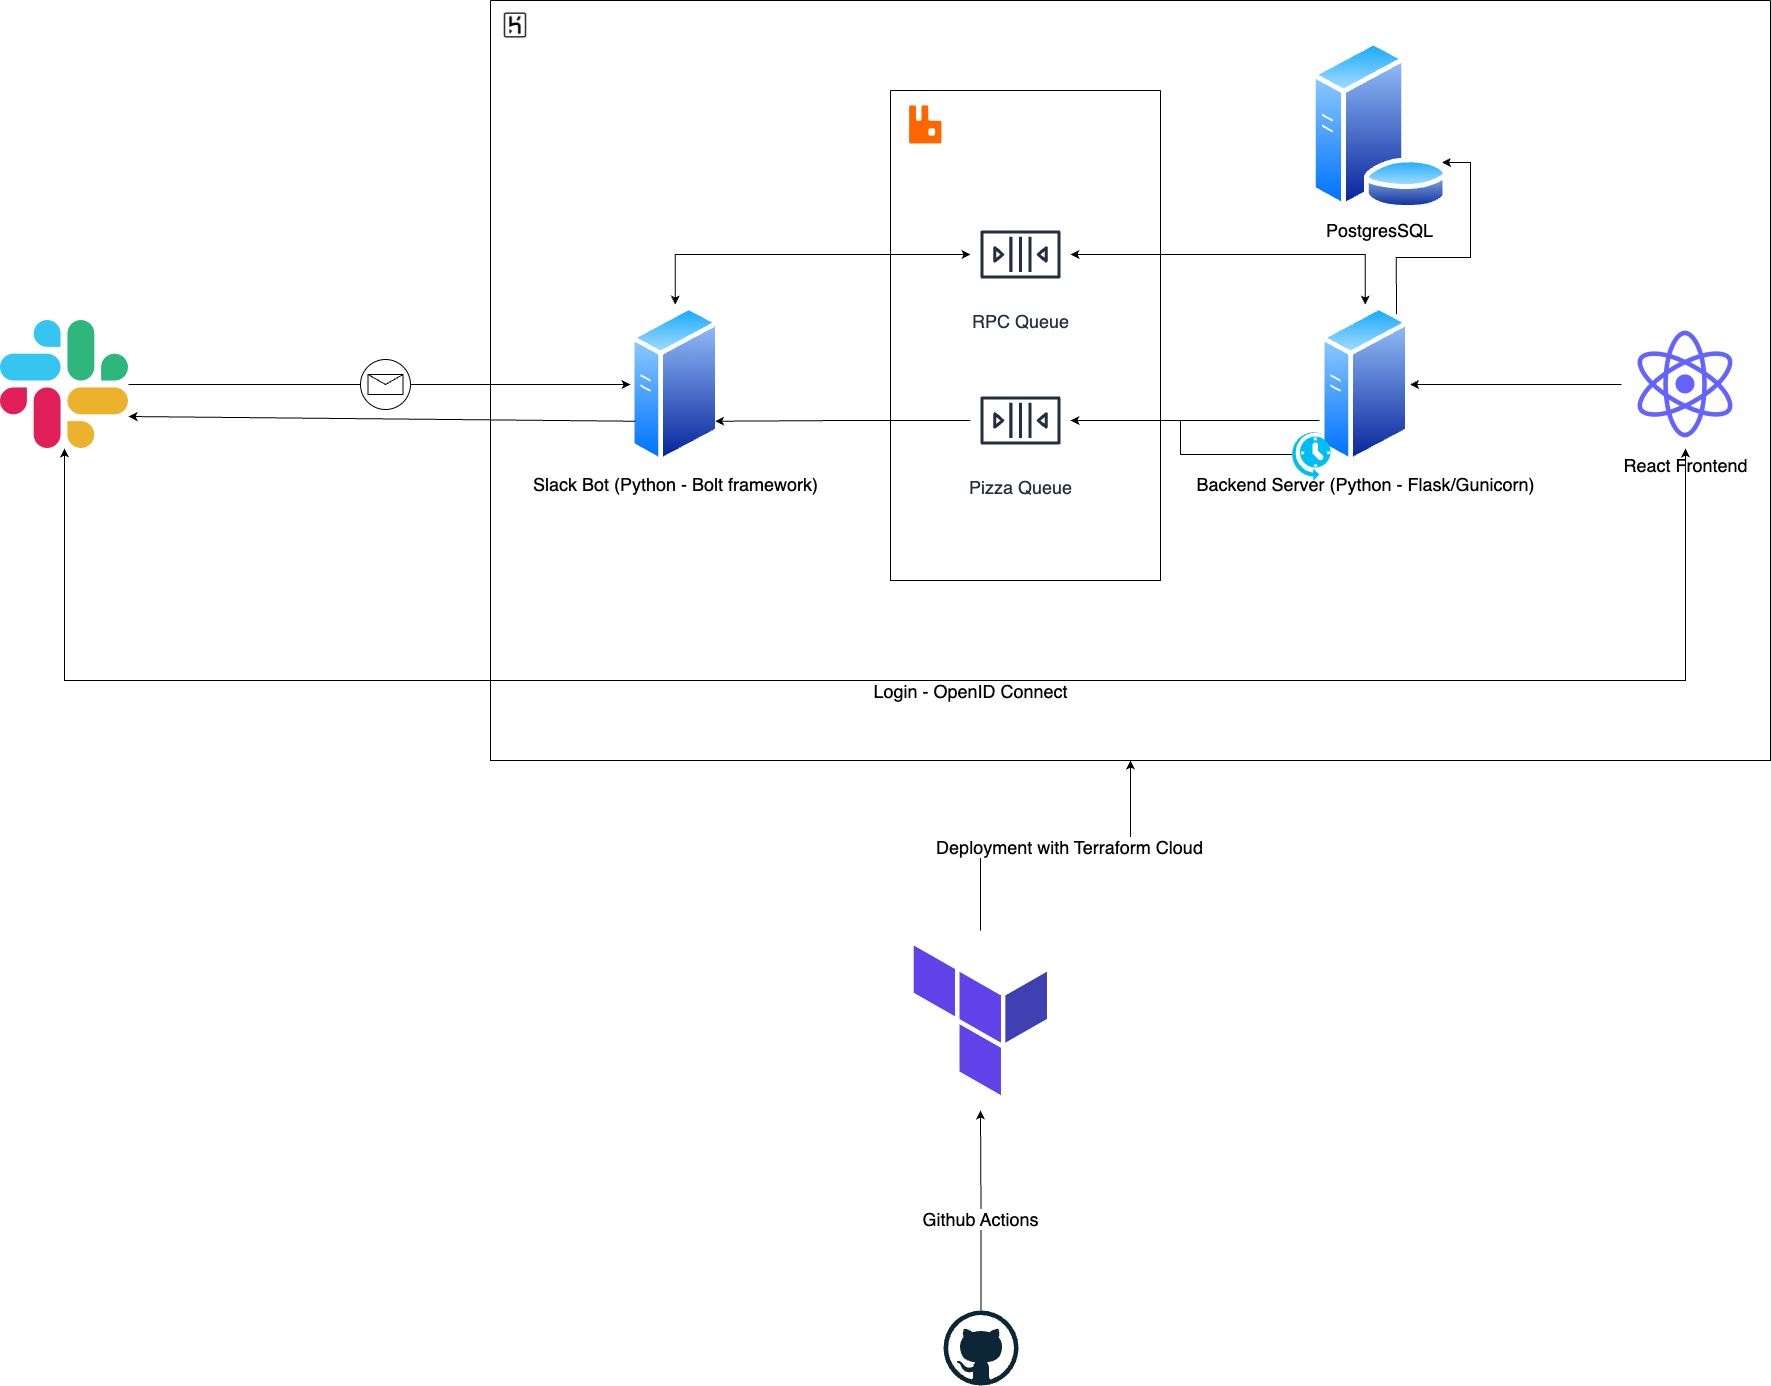
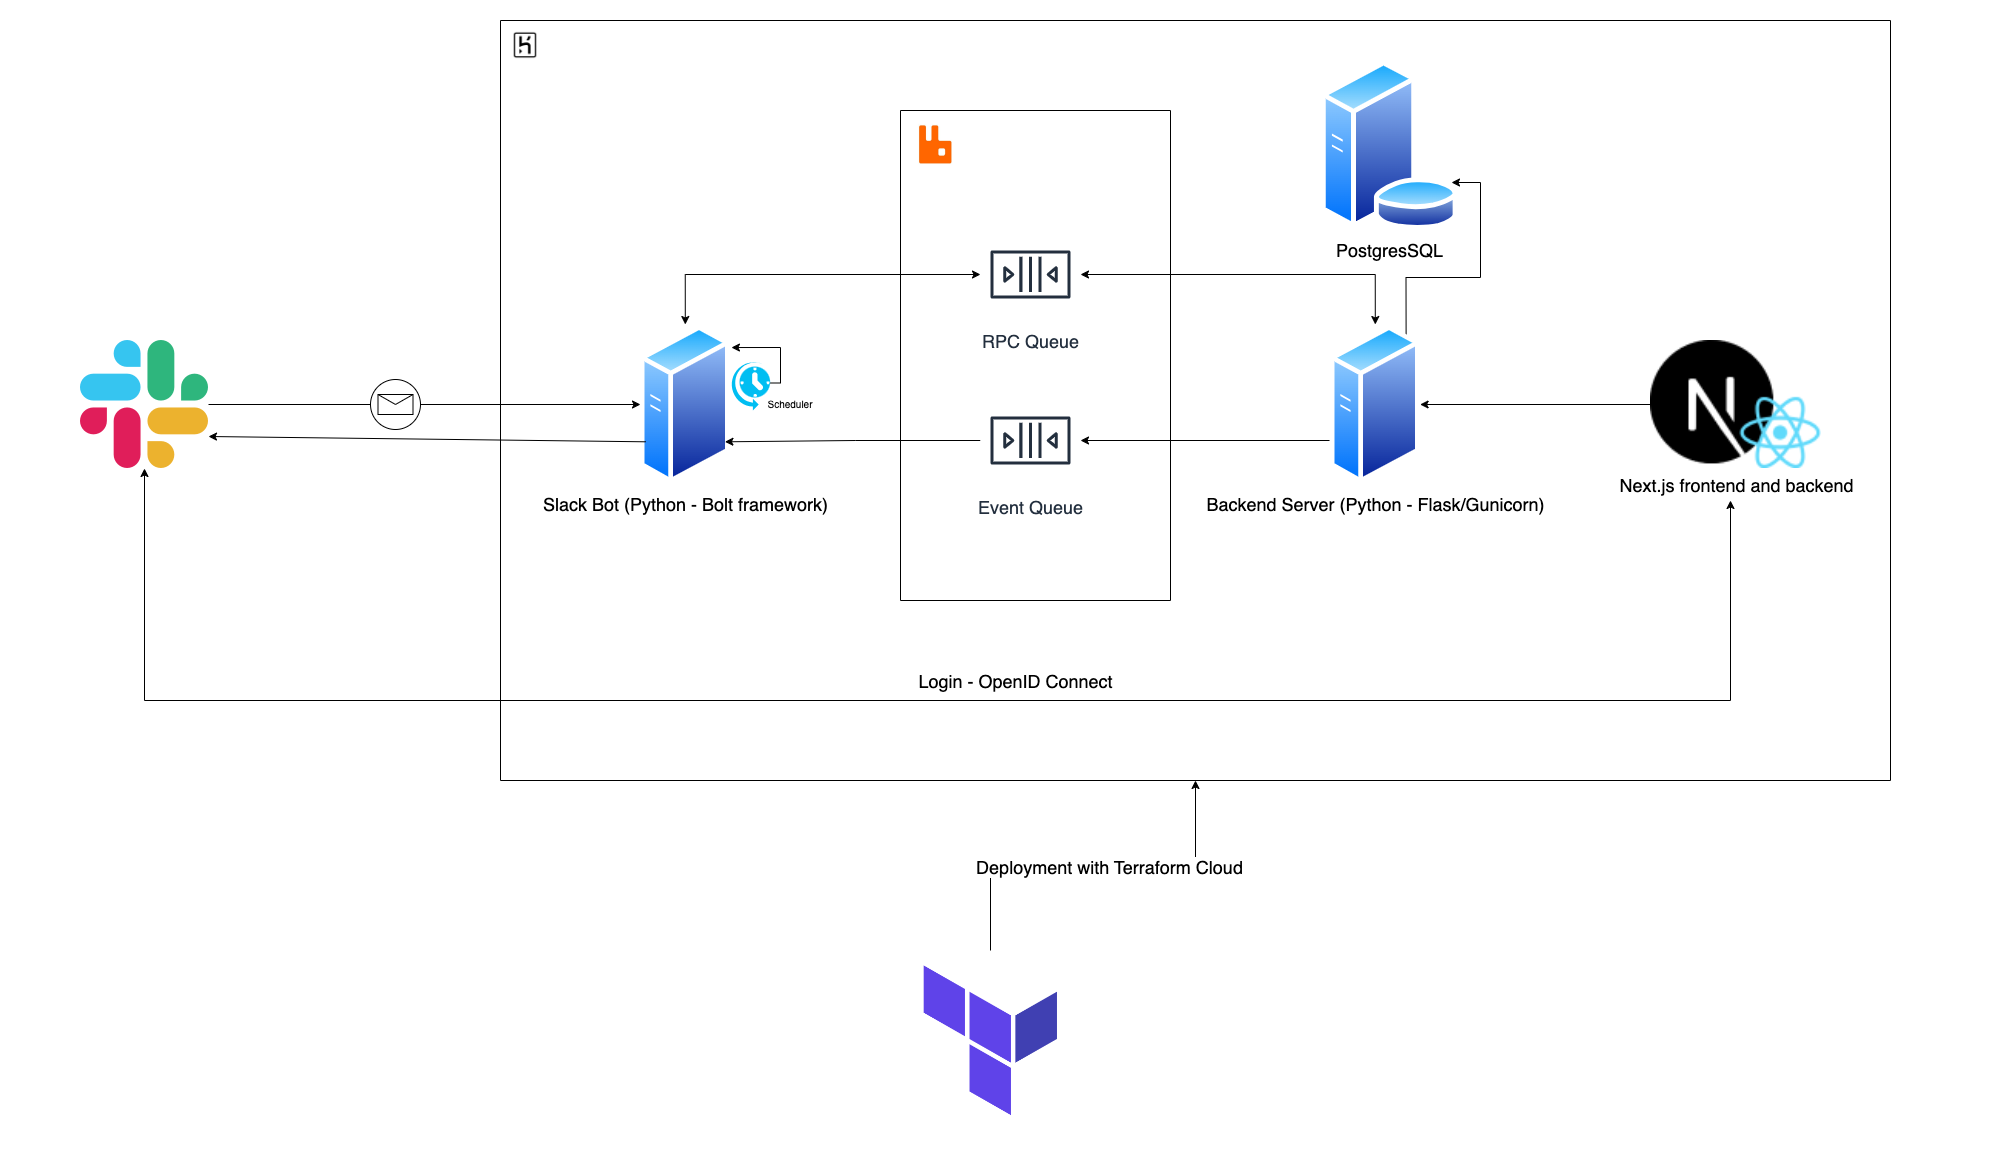
docs: update root and frontend README and diagrams

diff --git a/README.md b/README.md
@@ -1,6 +1,6 @@
-# pizza-app
+# PizzaBot v3
 
-![Infrastructure Diagram](https://github.com//blankoslo/Pizza.v2/blob/main/README/infrastructure.png?raw=true)
+![Infrastructure Diagram](https://github.com//blankoslo/Pizza.v3/blob/main/README/infrastructure.png?raw=true)
 
 ## Slack App Bot setup
 
@@ -41,6 +41,11 @@ As we use Ouath2 for authentication we are forced to use https. Nginx needs vali
 
 **NB:** You'll need to supply the docker-compose file with slack credentials as mention in the `Slack App Bot setup` section. These are defined in a `.env` file in `application/containers/development` folder of the project. This file is not commited to the repository, so you have to create it manually. You can use the `.env.example` file as a template inside `application/containers/development`. You'll also need to supply cloudinary credentials if you want the uninstall handler to properly delete images, you should also update the `upload_preset` in `handle_file_share` in `bot/src/slack/__init__.py` to point to your own cloudinary account.
 
+### Slack integration flow
+
+For flow of how the bot is added to a slack workspace, see digram in README/InstallFlow.png
+For flow of how login is handled with Slack, see diagram in README/LoginFlow.png
+
 ### Good to know
 
 Locales doesnt work properly in the alpine container used, meaning it's not a bug if stuff is localized wrong, such as the time string send in pizza event invites.
@@ -49,24 +54,28 @@ Locales doesnt work properly in the alpine container used, meaning it's not a bu
 
 #### Terraform Cloud
 
-This repository is connected to Terraform Cloud where it is automatically planned and then manually applied whenever a new tag is created.
-The branch used in Terraform Cloud is the `Build` branch, which gets created on every new version. This branch is the same as master, but it also contains the build files for the frontend application.
-A tag is automatically created through GitHub actions when a PR is merged into Main.
+This repository is connected to Terraform Cloud where it is planned and then manually applied whenever a new tag is created.
+
+Prod and staging live as separate workspaces in Terraform Cloud. The branch used in Terraform Cloud is `main` for the staging environment, and `prod` for the production environment. The `prod` branch is merged from main after the staging environment is tested. Terraform is not set up to automatically listen for changes on the branches (TODO), and a manual update of the target branch might be required to plan a new version.
+
+When a planned version is applied, the changed environments are pushed to Heroku
 
 #### Heroku
 
 We are using terraform to describe the infrastructure, which can be found in the `/infrastructure` folder. In addition to this the backend/bot have `Procfile`, `runtime.txt`, and `.locales` files that describe the process, heroku runtime and additional locales to include. While the frontend have `.static` in the `public` folder to indicate the application folder for the nginx buildpacker, and a `.gitignore` file to keep the files and folder in git.
 
 1. Go into the `infrastructure` folder and run `terraform apply` (not needed if using Terraform Cloud).
-2. Go to the app settings of the frontend app in Heroku at `https://dashboard.heroku.com/apps/pizzabot-v2-stag-frontend/settings` (where the text after `/apps/` will be your app's name) and under `Domains` copy the `DNS Target`.
-3. Go to the app settings of the backend app in Heroku at `https://dashboard.heroku.com/apps/pizzabot-v2-stag-backend/settings` (where the text after `/apps/` will be your app's name) and under `Domains` copy the `DNS Target`.
-4. Create a CNAME record with the hostname specified in the main terraform file for both the frontend and the backend and point them to the `DNS TARGET`s from heroku. After a while routing and SSL should work flawlesly.
+2. Go to the app settings of the frontend app in Heroku and under `Domains` copy the `DNS Target`.
+3. Go to the app settings of the backend app in Heroku and under `Domains` copy the `DNS Target`.
+4. Create a CNAME record with the hostname specified in the main terraform file for both the frontend and the backend and point them to the `DNS TARGET`s from heroku. After a while routing and SSL should work flawlessly.
 
 Infrastructure:
 
-- Backend-app: contains the database, papertrail instance, Rabbitmq instance, and backend application
-- Bot-app: contains an attachement to the database, an attachement to the papertrail instance, an attachement to the Rabbitmq instance, the bot worker
-- Frontend-app: contains a nginx instance with the build files from the `public` folder
+- prod/stag-backend: contains the database, papertrail instance, Rabbitmq instance, and backend application
+- prod/stag-bot: contains an attachement to the database, an attachement to the papertrail instance, an attachement to the Rabbitmq instance, the bot worker
+- prod/stag-frontend: contains source code of the Next.js-application, which is automatically detected and built by Heroku. The app is then automatically launched using by heroku with `npm run start`, where the correct port is provided with the env-var `$PORT`.
+
+**NOTE** Promoting apps from staging to prod has not been tested. We manually apply new prod and staging instances using Terraform.
 
 ## Tests
 
@@ -99,11 +108,11 @@ Please follow these guidelines when contributing to this project:
 
 ## Code of Conduct
 
-We expect all contributors to adhere to our [Code of Conduct](https://github.com/blankoslo/Pizza.v2/blob/main/CODE_OF_CONDUCT.md). Please read it before contributing.
+We expect all contributors to adhere to our [Code of Conduct](https://github.com/blankoslo/Pizza.v3/blob/main/CODE_OF_CONDUCT.md). Please read it before contributing.
 
 ## Issue Tracker
 
-If you find any issues or have feature requests, please submit them on the [issue tracker](https://github.com/blankoslo/Pizza.v2/issues).
+If you find any issues or have feature requests, please submit them on the [issue tracker](https://github.com/blankoslo/Pizza.v3/issues).
 
 ## Contact
 
@@ -113,4 +122,4 @@ Thank you for your contributions!
 
 ## License
 
-By contributing to Pizza.v2, you agree that your contributions will be licensed under the GNU General Public License v3.0 license. Please see the [LICENSE](https://github.com/blankoslo/Pizza.v2/blob/main/LICENSE) file for more information.
+By contributing to Pizza.v3, you agree that your contributions will be licensed under the GNU General Public License v3.0 license. Please see the [LICENSE](https://github.com/blankoslo/Pizza.v3/blob/main/LICENSE) file for more information.

diff --git a/application/next-frontend/README.md b/application/next-frontend/README.md
@@ -1,38 +1,41 @@
-This is a [Next.js](https://nextjs.org/) project bootstrapped with [`create-next-app`](https://github.com/vercel/next.js/tree/canary/packages/create-next-app).
+New frontend for the Pizzabot, written in Next.js with pages-router.
 
-## Getting Started
+# Getting Started
 
-First, run the development server:
+In order for the application to work the dev server should be launched through the corresponding docker-container. Read the root-level README, the local dev-url is https://localhost:4000
 
-```bash
-npm run dev
-# or
-yarn dev
-# or
-pnpm dev
-```
+# About the codebase
 
-Open [http://localhost:3000](http://localhost:3000) with your browser to see the result.
+## Folder structure
 
-You can start editing the page by modifying `pages/index.tsx`. The page auto-updates as you edit the file.
+### /pages
 
-[API routes](https://nextjs.org/docs/api-routes/introduction) can be accessed on [http://localhost:3000/api/hello](http://localhost:3000/api/hello). This endpoint can be edited in `pages/api/hello.ts`.
+Used for defining routes, and check for auth server-side
 
-The `pages/api` directory is mapped to `/api/*`. Files in this directory are treated as [API routes](https://nextjs.org/docs/api-routes/introduction) instead of React pages.
+### /src
 
-This project uses [`next/font`](https://nextjs.org/docs/basic-features/font-optimization) to automatically optimize and load Inter, a custom Google Font.
+The codebase is split into /Landing and /Admin side of the project, with /Shared being code that is shared between them.
 
-## Learn More
+/Landing and /Admin is organized into
 
-To learn more about Next.js, take a look at the following resources:
+-   components: Reusable components used in multiple places
+-   scenarios: Larger more involved components, which are only used once.
+    -   scenearios can contain components, assets etc aswell if they are scoped to that scenario
+-   assets: img etc
 
-- [Next.js Documentation](https://nextjs.org/docs) - learn about Next.js features and API.
-- [Learn Next.js](https://nextjs.org/learn) - an interactive Next.js tutorial.
+### /src/api
 
-You can check out [the Next.js GitHub repository](https://github.com/vercel/next.js/) - your feedback and contributions are welcome!
+Helpers for fetching data from backend. useAuthedSWR is useSWR from the SWR-package extended to include the proper credentials/cookies when fetching from protected routes.
 
-## Deploy on Vercel
+## Slack integration and auth
 
-The easiest way to deploy your Next.js app is to use the [Vercel Platform](https://vercel.com/new?utm_medium=default-template&filter=next.js&utm_source=create-next-app&utm_campaign=create-next-app-readme) from the creators of Next.js.
+Adding the bot to a workspace and logging in is done through links generated by Slack API. These are requested from our backend, as the Slack Api requires context from our DB in order to get the right credentials. After logging in through this link, the user is redirected to a callback url with an access-token. When logging in with this token a session and corresponding cookie is set up from our backend.
+For more info and diagrams, see root README.
 
-Check out our [Next.js deployment documentation](https://nextjs.org/docs/deployment) for more details.
+**Note** Permissions/access tokens is provided by Slack through Oauth2, but session cookie and csrf-token is managed entirely by the backend.
+
+## Other
+
+### Prettier, Eslint, Husky
+
+The project is set up to use Prettier formatting with basic Eslint linting rules. Run `npm run fix` to format and lint automatically. Husky along with lint-staged package is used to check these rules when commiting, and should automatically install when running `npm install`. Husky scripts are found in /.husky.
